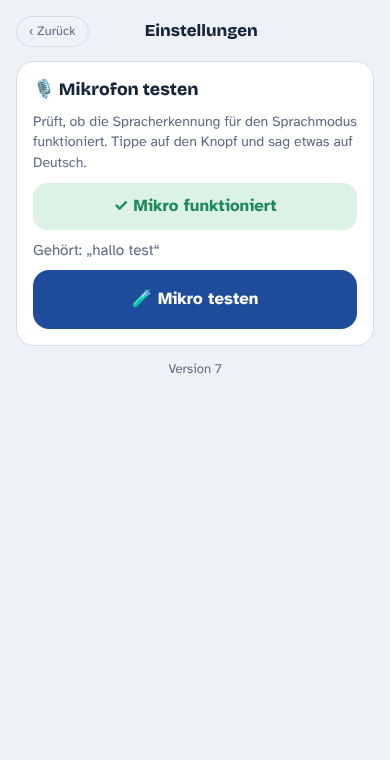
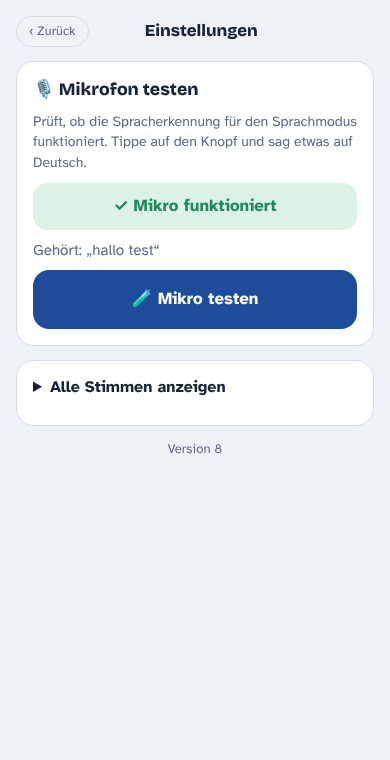
Einstellungen: Liste aller Stimmen zur Fehlersuche, iOS-26-Pfad im Tipp
Claude-Session: https://claude.ai/code/session_01PBvUqqab2ECxLwv42av9yt

Changed region(s): [[0.1231, 0.4539, 0.5846, 0.5145], [0.4308, 0.575, 0.5846, 0.6053]]

diff --git a/index.html b/index.html
@@ -296,7 +296,11 @@ h1 span{color:var(--sol)}
     <button class="btn show" id="sTest" type="button">🧪 Mikro testen</button>
     <div class="vdiag" id="sDiag"></div>
   </div>
-  <p class="vtip">Version 7</p>
+  <details class="sbox">
+    <summary><b>Alle Stimmen anzeigen</b></summary>
+    <pre id="sVoices" style="white-space:pre-wrap;font-size:.72rem;line-height:1.5;margin:8px 0 0;color:var(--muted)"></pre>
+  </details>
+  <p class="vtip">Version 8</p>
 </div>
 
 <script>
@@ -955,10 +959,10 @@ async function voiceTurn(){
 function voiceInfo(){
   findVoice();findDeVoice();
   const e=freshVoice(esVoice), d=freshVoice(deVoice);
-  if(!e)return "⚠ Keine spanische Stimme gefunden. Lade eine unter Einstellungen › Bedienungshilfen › Gesprochene Inhalte › Stimmen › Spanisch.";
+  if(!e)return "⚠ Keine spanische Stimme gefunden. Lade eine unter Einstellungen › Bedienungshilfen › Lesen & Sprechen › Stimmen › Spanisch.";
   const lvl=v=>["einfach","Erweitert","Premium"][voiceTier(v)]||"";
   let t=`Stimmen: 🇪🇸 ${e.name} (${lvl(e)}) · 🇩🇪 ${d?`${d.name} (${lvl(d)})`:"Standard"}`;
-  if(voiceTier(e)<1||(d&&voiceTier(d)<1))t+=" · Tipp für eine menschlichere Stimme: Einstellungen › Bedienungshilfen › Gesprochene Inhalte › Stimmen › Spanisch (bzw. Deutsch) › z. B. „Mónica“/„Anna“ › Erweitert oder Premium laden, dann App neu öffnen.";
+  if(voiceTier(e)<1||(d&&voiceTier(d)<1))t+=" · Tipp für eine menschlichere Stimme: Einstellungen › Bedienungshilfen › Lesen & Sprechen › Stimmen › Spanisch (bzw. Deutsch) › z. B. „Mónica“/„Anna“ › Erweitert oder Premium laden, dann App neu öffnen.";
   return t;
 }
 function startVoice(){
@@ -1000,8 +1004,15 @@ async function micTest(){
 }
 function openSettings(){
   setTest(SR?"Tippe auf „Mikro testen“ und sag etwas.":"Dieses Gerät hat keine Spracherkennung.");
-  $("sHeard").textContent="";$("sDiag").textContent=tts?voiceInfo():"";
+  $("sHeard").textContent="";$("sDiag").textContent=tts?voiceInfo():"";listVoices();
   $("home").hidden=true;$("settings").hidden=false;
+}
+// Liste aller deutschen/spanischen Stimmen, die der Browser liefert (zur Fehlersuche)
+function listVoices(){
+  const all=voicesNow().filter(v=>/^(es|de)/i.test(v.lang));
+  const e=freshVoice(esVoice), d=freshVoice(deVoice);
+  $("sVoices").textContent=all.length?all.map(v=>`${v===e||v===d?"★ ":""}${v.name} · ${v.lang} · ${v.voiceURI}${v.localService===false?" · online":""}`).join("\n")
+    :"Keine deutschen/spanischen Stimmen gefunden ("+voicesNow().length+" Stimmen insgesamt).";
 }
 function closeSettings(){vm.token++;$("sTest").disabled=false;rec.ui={heard:"vHeard",diag:"vDiag"};show("home")}
 

diff --git a/src/voice.js b/src/voice.js
@@ -326,10 +326,10 @@ async function voiceTurn(){
 function voiceInfo(){
   findVoice();findDeVoice();
   const e=freshVoice(esVoice), d=freshVoice(deVoice);
-  if(!e)return "⚠ Keine spanische Stimme gefunden. Lade eine unter Einstellungen › Bedienungshilfen › Gesprochene Inhalte › Stimmen › Spanisch.";
+  if(!e)return "⚠ Keine spanische Stimme gefunden. Lade eine unter Einstellungen › Bedienungshilfen › Lesen & Sprechen › Stimmen › Spanisch.";
   const lvl=v=>["einfach","Erweitert","Premium"][voiceTier(v)]||"";
   let t=`Stimmen: 🇪🇸 ${e.name} (${lvl(e)}) · 🇩🇪 ${d?`${d.name} (${lvl(d)})`:"Standard"}`;
-  if(voiceTier(e)<1||(d&&voiceTier(d)<1))t+=" · Tipp für eine menschlichere Stimme: Einstellungen › Bedienungshilfen › Gesprochene Inhalte › Stimmen › Spanisch (bzw. Deutsch) › z. B. „Mónica“/„Anna“ › Erweitert oder Premium laden, dann App neu öffnen.";
+  if(voiceTier(e)<1||(d&&voiceTier(d)<1))t+=" · Tipp für eine menschlichere Stimme: Einstellungen › Bedienungshilfen › Lesen & Sprechen › Stimmen › Spanisch (bzw. Deutsch) › z. B. „Mónica“/„Anna“ › Erweitert oder Premium laden, dann App neu öffnen.";
   return t;
 }
 function startVoice(){
@@ -371,8 +371,15 @@ async function micTest(){
 }
 function openSettings(){
   setTest(SR?"Tippe auf „Mikro testen“ und sag etwas.":"Dieses Gerät hat keine Spracherkennung.");
-  $("sHeard").textContent="";$("sDiag").textContent=tts?voiceInfo():"";
+  $("sHeard").textContent="";$("sDiag").textContent=tts?voiceInfo():"";listVoices();
   $("home").hidden=true;$("settings").hidden=false;
+}
+// Liste aller deutschen/spanischen Stimmen, die der Browser liefert (zur Fehlersuche)
+function listVoices(){
+  const all=voicesNow().filter(v=>/^(es|de)/i.test(v.lang));
+  const e=freshVoice(esVoice), d=freshVoice(deVoice);
+  $("sVoices").textContent=all.length?all.map(v=>`${v===e||v===d?"★ ":""}${v.name} · ${v.lang} · ${v.voiceURI}${v.localService===false?" · online":""}`).join("\n")
+    :"Keine deutschen/spanischen Stimmen gefunden ("+voicesNow().length+" Stimmen insgesamt).";
 }
 function closeSettings(){vm.token++;$("sTest").disabled=false;rec.ui={heard:"vHeard",diag:"vDiag"};show("home")}
 

diff --git a/sw.js b/sw.js
@@ -1,5 +1,5 @@
 // Offline-Unterstützung: immer erst online laden, sonst aus dem Speicher
-const CACHE = "espanol-v7";
+const CACHE = "espanol-v8";
 const FILES = ["./", "index.html", "manifest.webmanifest", "icons/icon-192.png", "icons/icon-512.png", "icons/apple-touch-icon.png"];
 self.addEventListener("install", e => { e.waitUntil(caches.open(CACHE).then(c => c.addAll(FILES))); self.skipWaiting(); });
 self.addEventListener("activate", e => { e.waitUntil(caches.keys().then(ks => Promise.all(ks.filter(k => k !== CACHE).map(k => caches.delete(k))))); self.clients.claim(); });

diff --git a/src/build.py b/src/build.py
@@ -108,6 +108,10 @@ settings_html = """
     <button class="btn show" id="sTest" type="button">🧪 Mikro testen</button>
     <div class="vdiag" id="sDiag"></div>
   </div>
+  <details class="sbox">
+    <summary><b>Alle Stimmen anzeigen</b></summary>
+    <pre id="sVoices" style="white-space:pre-wrap;font-size:.72rem;line-height:1.5;margin:8px 0 0;color:var(--muted)"></pre>
+  </details>
   <p class="vtip">Version """ + version + """</p>
 </div>
 """
